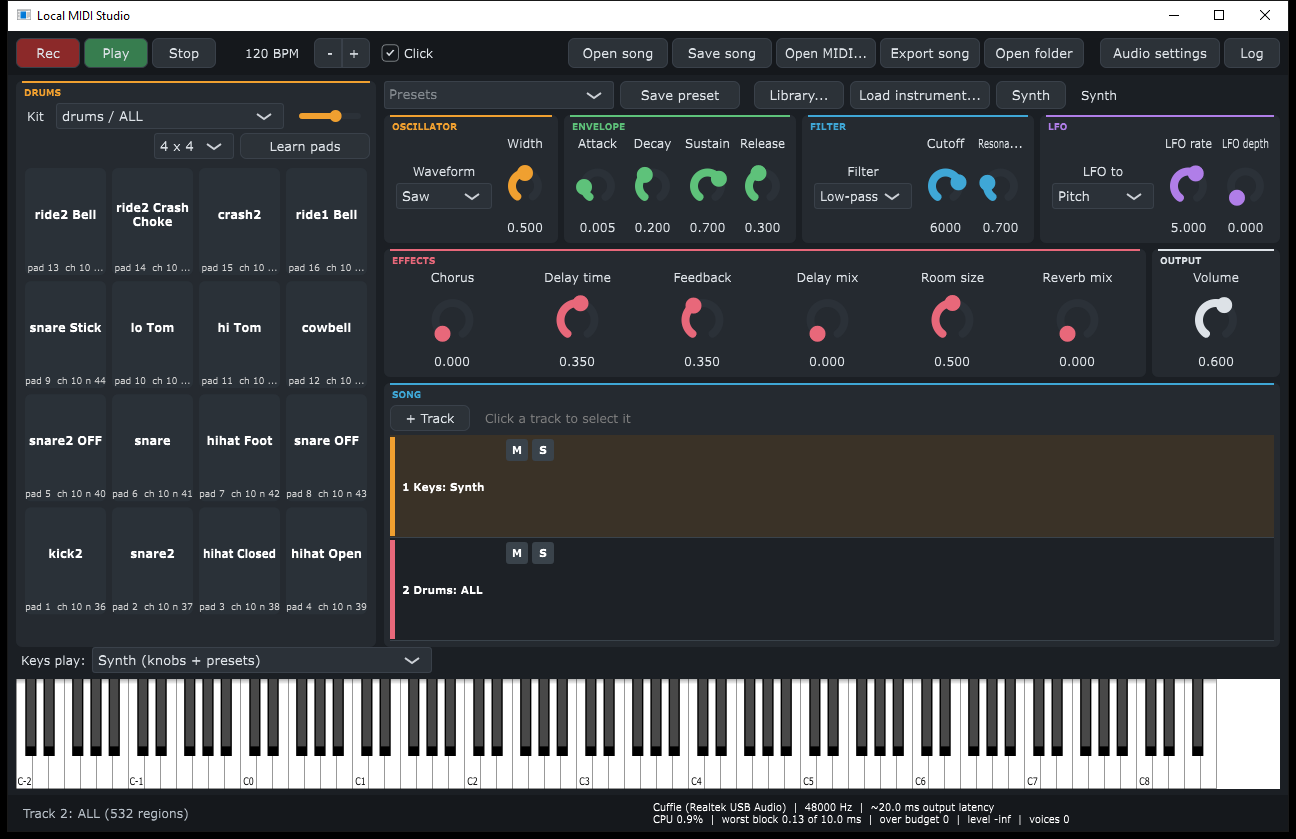
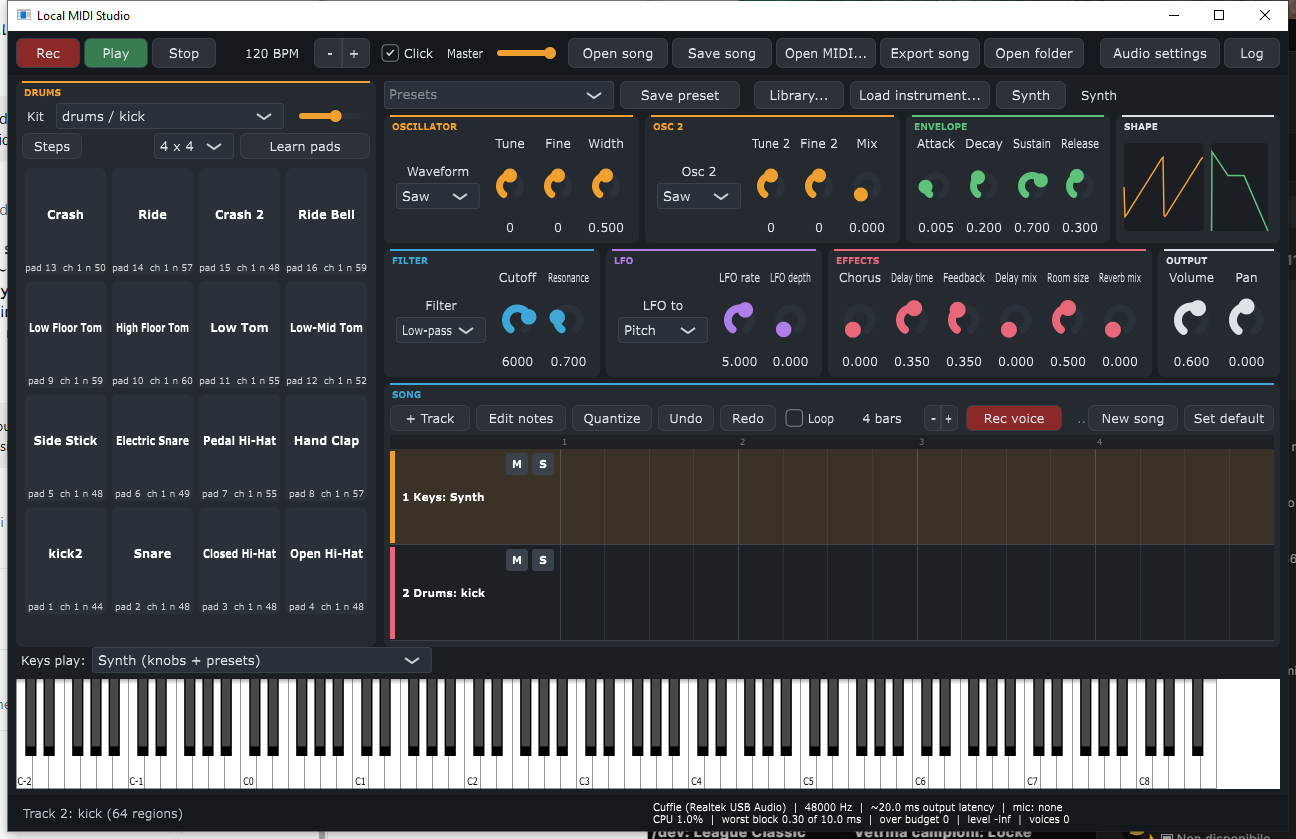
README: audio editing, voice, mixer and song features; new screenshot

diff --git a/README.md b/README.md
@@ -1,12 +1,12 @@
 <div align="center">
   <img width="700" src="assets/banner.svg" alt="Local MIDI Studio">
 
-An offline synthesizer, sampler and multitrack recorder for Windows.<br>
+An offline synthesizer, sampler and multitrack recorder with audio editing, for Windows.<br>
 Plug in any USB-MIDI keyboard, put on headphones and play: no accounts, no cloud, no network.
 
 <img alt="License GPL-3.0" src="https://img.shields.io/badge/license-GPL--3.0-f0a030?style=for-the-badge">
 <img alt="Windows" src="https://img.shields.io/badge/platform-Windows-3fa7d6?style=for-the-badge&logo=windows">
-<img alt="C++17" src="https://img.shields.io/badge/C%2B%2B-17-5ec27a?style=for-the-badge&logo=cplusplus">
+<img alt="C++20" src="https://img.shields.io/badge/C%2B%2B-20-5ec27a?style=for-the-badge&logo=cplusplus">
 <img alt="JUCE 7" src="https://img.shields.io/badge/JUCE-7.0.12-b07ee8?style=for-the-badge">
 
 ---
@@ -18,11 +18,12 @@ Plug in any USB-MIDI keyboard, put on headphones and play: no accounts, no cloud
 ## 🌃 Features
 
 - 🎹 **Plug and play MIDI**: keyboards are detected and enabled on hot-plug; notes, velocity, pitch bend, mod wheel and sustain pedal.
-- 🔊 **32-voice synth**: band-limited saw / square / pulse / triangle, sine, noise; ADSR, resonant LP/HP/BP filter, LFO (vibrato, wah, tremolo, PWM).
+- 🔊 **32-voice synth**: band-limited saw / square / pulse / triangle, sine, noise, a second detunable oscillator; ADSR, resonant LP/HP/BP filter, LFO (vibrato, wah, tremolo, PWM).
 - 🎻 **Sampler**: opens `.sfz` libraries and single audio files; a built-in library menu downloads free CC0 instruments.
-- 🥁 **Drum pads**: 16 on-screen pads that learn your hardware pads and always play the drum kit.
-- 🎚 **Effects**: chorus, delay, reverb, with presets and MIDI Learn on every knob.
-- 🎼 **Song mode**: up to 8 tracks, count-in and metronome, mute/solo, save/open songs, autosave after every take.
+- 🥁 **Drum pads and step sequencer**: 16 on-screen pads that learn your hardware pads, and a 16-step grid to build beats.
+- 🎚 **Mixer and effects**: per-track volume, pan, chorus, delay and reverb, a master volume; presets and MIDI Learn on every knob.
+- 🎼 **Song mode**: up to 8 tracks, count-in and metronome, loop recording with overdub, piano roll with quantize, 50-level undo/redo, mute/solo, save/open songs.
+- 🎤 **Voice and audio files**: record your microphone into a track, or drag WAV/MP3/FLAC/Ogg files onto the timeline; move, trim, split and duplicate them, zoomed in with Ctrl+wheel.
 - 📂 **MIDI files**: open any `.mid` (channel 10 → drums), export the mix to 24-bit WAV.
 - 🎓 **Genre sketches**: a script writes house, hip hop, rock, bossa nova and reggae loops on separate tracks, to hear how each genre is built.
 - ⚡ **Real-time safe**: lock-free MIDI path, no allocation in the audio callback, a 30-minute stress test.
@@ -31,7 +32,7 @@ Plug in any USB-MIDI keyboard, put on headphones and play: no accounts, no cloud
 
 ### ⬇ Download
 
-Grab `LocalMIDIStudio-<version>-win64.exe` from the [Releases](../../releases/latest) page (Windows 10/11, 64-bit), or build it from source (below). It is a single file that needs only Windows system DLLs: copy it anywhere and run it.
+Grab `LocalMIDIStudio-<version>-win64.exe` from the [Releases](../../releases/latest) page (Windows 10/11, 64-bit), or build it from source (below). It is a single file that needs only Windows system DLLs: copy it anywhere and run it. The latest release may be older than this page: build from source for everything described here.
 
 ## 🚀 Getting started
 
@@ -56,21 +57,28 @@ Grab `LocalMIDIStudio-<version>-win64.exe` from the [Releases](../../releases/la
 <summary><h3 style="display: inline;">🎼 Song mode and MIDI files [click to expand]</h3></summary>
 <hr/>
 
-- Track 1 = Keys, track 2 = Drums; **+ Track** adds more (up to 8). Click a track to select it: keys, knobs, presets and *Keys play* act on it.
-- **Rec** records the selected track after a one-bar count-in while the others play; **Stop** keeps the take. **Play** plays the song; **M** / **S** = mute / solo.
-- **Save song** / **Open song**: `.lmsong` files in `Documents\LocalMIDIStudio\Songs` (tempo, click, every track's sound, instrument, mute/solo and notes). Every take is also saved to `Songs\autosave.lmsong`.
+- **Tracks**: track 1 = Keys, track 2 = Drums; **+ Track** adds more (up to 8). Click a track to select it: keys, knobs, presets and *Keys play* act on it. Right-click a track's name to delete it (tracks 3 and up) or clear it. **M** / **S** = mute / solo.
+- **Rec** records the selected track after a one-bar count-in while the others play; **Stop** keeps the take. **Play** plays the song. **Space bar** = Play / Stop (also stops a recording).
+- **Loop**: tick it, pick the bars, press Rec: the bars repeat and every pass you play is added on top of the previous ones (you hear them while you play). Stop keeps it all in the track.
+- **Edit notes**: piano roll of the selected track: click to add, drag to move or stretch, right-click to delete. **Quantize** snaps it to 1/16, **Undo** / **Redo** go back and forth through the last 50 changes (takes too).
 - **Steps** (DRUMS panel): a 16-step grid, one row per pad sound; click squares to build a one-bar beat, set how many bars it repeats, press Play.
 - **Mixing**: *Volume* and *Pan* (Output knobs) belong to the selected track; *Master* (top bar) sets the level of all tracks, the exported song included. All three are saved in the song.
-- **Edit notes** (SONG panel): piano roll of the selected track - click to add, drag to move or stretch, right-click to delete. **Quantize** snaps it to 1/16, **Undo** / **Redo** go back and forth through the last 50 changes (takes too).
-- **Voice** (red *Rec voice* button in the SONG panel): select a track, press *Rec voice* and sing after the count-in; press it again (or Stop) to finish. The first time it opens *Audio settings*: pick your microphone under *Input* (the status bar then shows `mic: ...`). The voice goes through that track's Volume, Pan and effects; *Save song* stores it as a WAV in the `Audio` folder next to the song, and every take is also kept in `Songs\Audio\voice-<date>.wav`.
-- **Space bar**: Play / Stop (also stops a recording).
-- **Audio files**: drag WAV, MP3, FLAC, Ogg or AIFF files from Explorer onto a track in the SONG panel; each plays from where you drop it (below the last track: a new track). Drag a region to move it (Shift: snap to 1/16), drag its edges to cut the start or the end. Right-click a region: *Split here*, *Duplicate* (Ctrl+D), *Delete* (Del), *Untrim*. Regions go through the track's Volume, Pan and effects, and are in Export song.
-- **Zoom**: Ctrl+wheel over the SONG panel zooms in and out around the mouse, the wheel scrolls in time, double-click on empty space shows the whole song.
-- **Tracks**: right-click a track's name to delete it (tracks 3 and up) or clear it.
-- **Loop** (SONG panel): tick it, pick the bars, press Rec: the bars repeat and every pass you play is added on top of the previous ones (you hear them while you play). Stop keeps it all in the track.
+- **Save song** / **Open song**: `.lmsong` files in `Documents\LocalMIDIStudio\Songs` (tempo, click, every track's sound, instrument, mute/solo, notes and audio). Every take is also saved to `Songs\autosave.lmsong`.
 - **Export song** writes the audible tracks to a 48 kHz / 24-bit WAV (metronome not included).
 - **Open MIDI...**: channel 10 → Drums, every other file track → its own track, file tempo → BPM.
 - **Genre sketches**: `python tools/genres.py` writes 8-bar loops to `Documents\LocalMIDIStudio\Genres`. Open one, give each track a sound, Play, then mute/solo to hear each ingredient. The patterns are plain text at the top of the script.
+</details>
+
+<details>
+<summary><h3 style="display: inline;">🎤 Voice and audio files [click to expand]</h3></summary>
+<hr/>
+
+- **Rec voice** (red button in the SONG panel): select a track, press it and sing after the count-in; press it again (or Stop) to finish. The first time it opens *Audio settings*: pick your microphone under *Input* (the status bar then shows `mic: ...`).
+- **Audio files**: drag WAV, MP3, FLAC, Ogg or AIFF files from Explorer onto a track; each plays from where you drop it (below the last track: a new track). A track holds several files.
+- **Editing**: drag a region to move it (Shift: snap to 1/16), drag its edges to cut the start or the end. Right-click a region: *Split here*, *Duplicate* (Ctrl+D), *Delete* (Del), *Untrim*. Cuts get a 5 ms fade, so they don't click.
+- **Zoom**: Ctrl+wheel over the SONG panel zooms around the mouse, the wheel scrolls in time, double-click on empty space shows the whole song. The ruler numbers the bars.
+- Voices and files go through the track's Volume, Pan and effects, and are in Export song. *Save song* keeps them as WAVs in the `Audio` folder next to the song; every voice take is also kept in `Songs\Audio\voice-<date>.wav`.
+- Audio edits are not in Undo (the original files stay on disk). Up to 32 regions and 30 minutes of audio per track.
 </details>
 
 <details>
